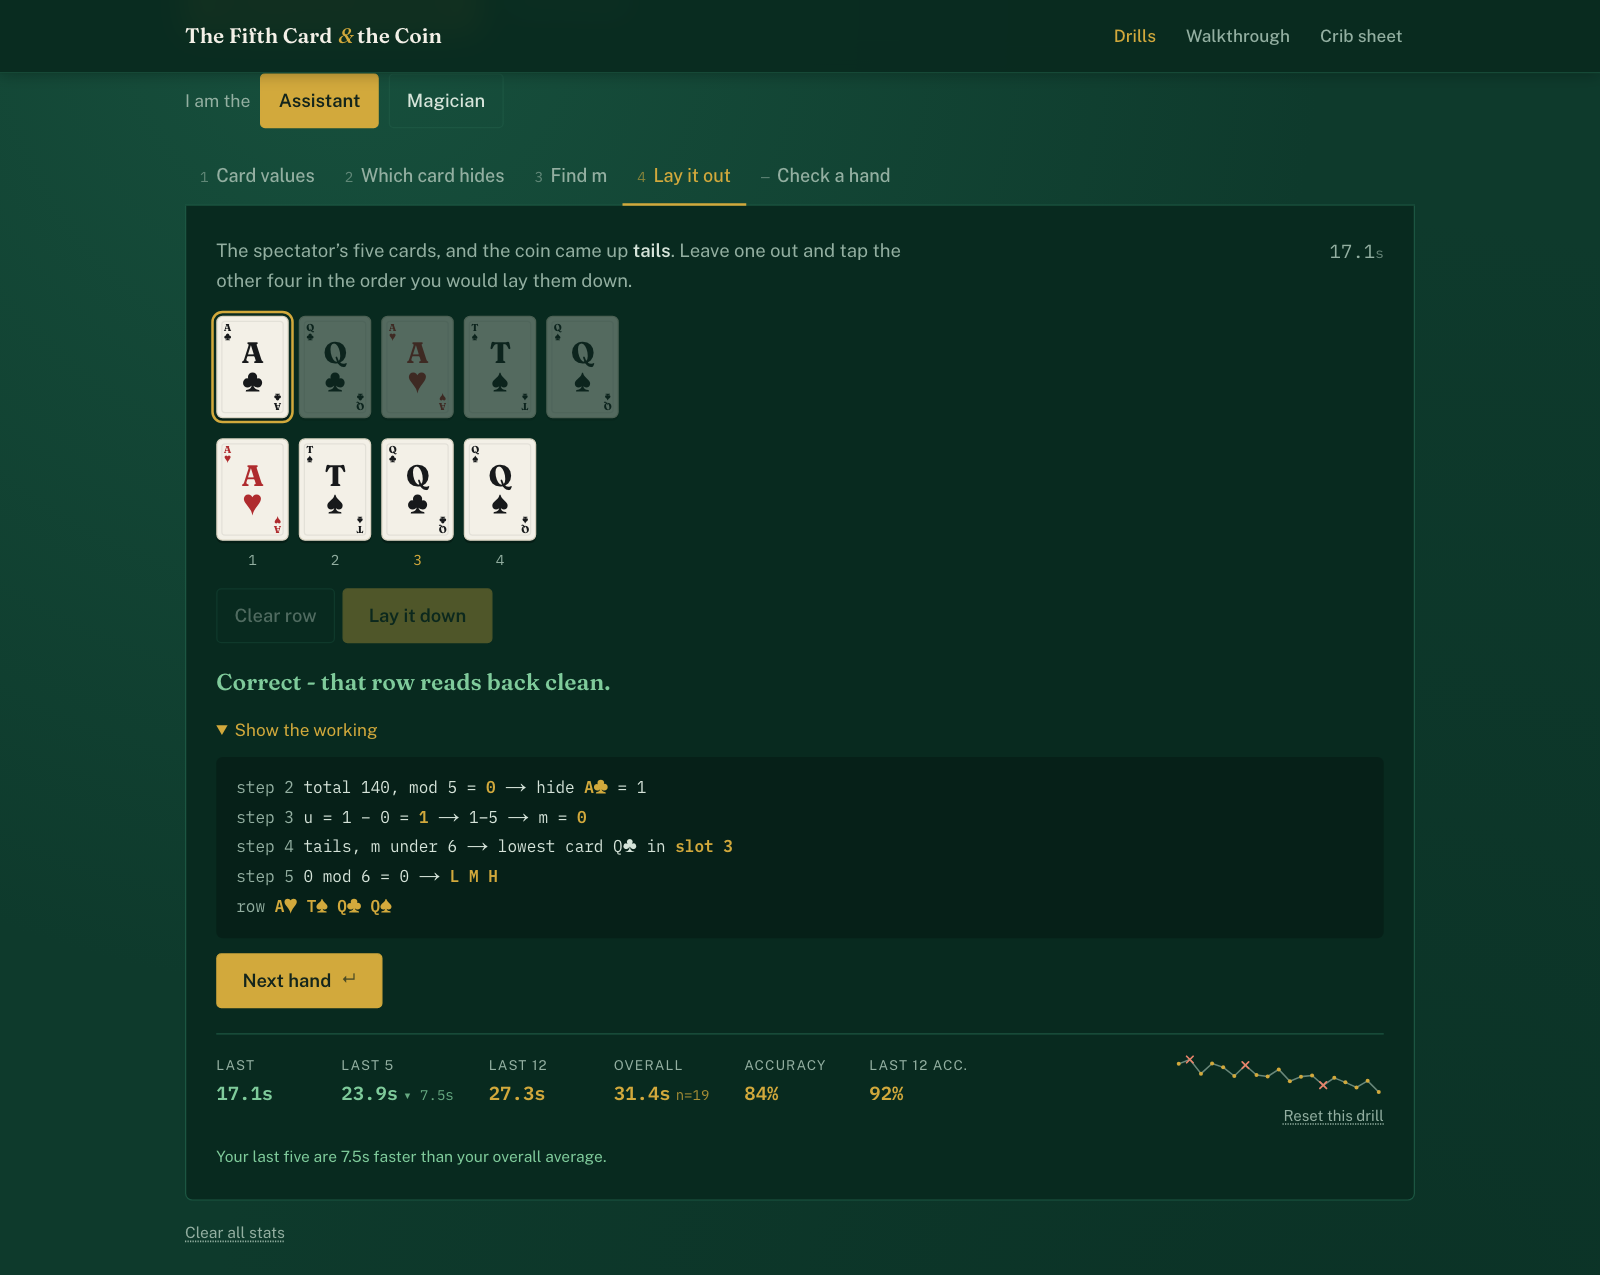
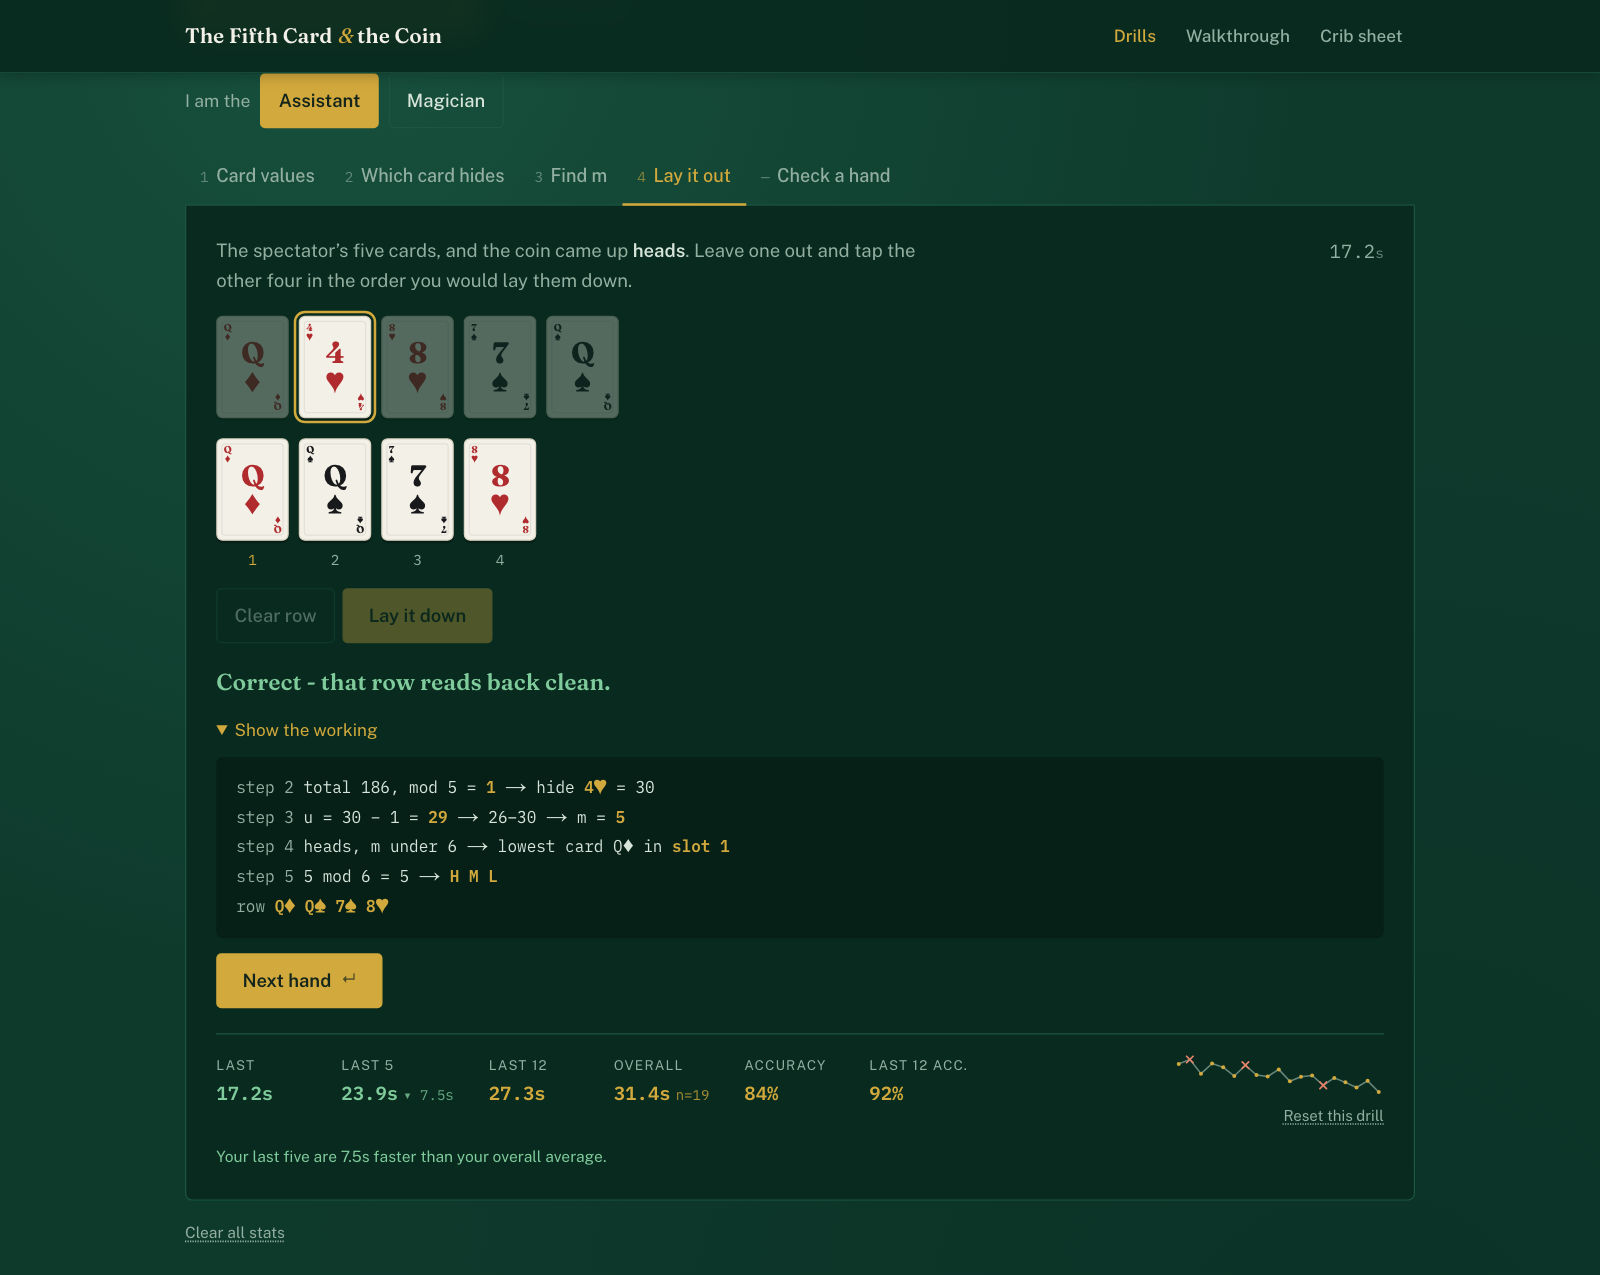
Polish: keep focus without the scroll jump, centre the walkthrough reveal
- The "next" button takes focus with preventScroll, so the keyboard path still
  works but a tall drill no longer yanks the page down on submit.
- The four receded cards on the last walkthrough step now sit centred under the
  revealed fifth card instead of drifting right.

diff --git a/components/drills/DrillShell.tsx b/components/drills/DrillShell.tsx
@@ -80,9 +80,13 @@ export function Hit({ children }: { children: ReactNode }) {
 }
 
 export function NextButton({ onClick, label = 'Next hand' }: { onClick: () => void; label?: string }) {
+  // Focus lands here so the keyboard path carries on, but without the scroll
+  // jump autoFocus would cause at the bottom of a tall drill.
+  const focus = (node: HTMLButtonElement | null) => node?.focus({ preventScroll: true });
+
   return (
     <div className="mt-3">
-      <button type="button" className="btn btn-go" onClick={onClick} autoFocus>
+      <button type="button" className="btn btn-go" onClick={onClick} ref={focus}>
         {label} <span className="ml-2 text-[0.75rem] opacity-70">&crarr;</span>
       </button>
     </div>

diff --git a/components/learn/steps.ts b/components/learn/steps.ts
@@ -97,10 +97,10 @@ export function positions(step: number): Record<number, Spot> {
 
   // 10: the row recedes upward and the fifth card lands centre stage
   return {
-    [CQ]: spot(150, HOLD_Y, HOLD_SCALE, 0.45),
-    [C7]: spot(210, HOLD_Y, HOLD_SCALE, 0.45),
-    [CA]: spot(270, HOLD_Y, HOLD_SCALE, 0.45),
-    [C3]: spot(330, HOLD_Y, HOLD_SCALE, 0.45),
+    [CQ]: spot(122, HOLD_Y, HOLD_SCALE, 0.45),
+    [C7]: spot(182, HOLD_Y, HOLD_SCALE, 0.45),
+    [CA]: spot(242, HOLD_Y, HOLD_SCALE, 0.45),
+    [C3]: spot(302, HOLD_Y, HOLD_SCALE, 0.45),
     [C9]: spot((STAGE_W - CARD_W) / 2, ROW_Y, 1, 1, true),
   };
 }
